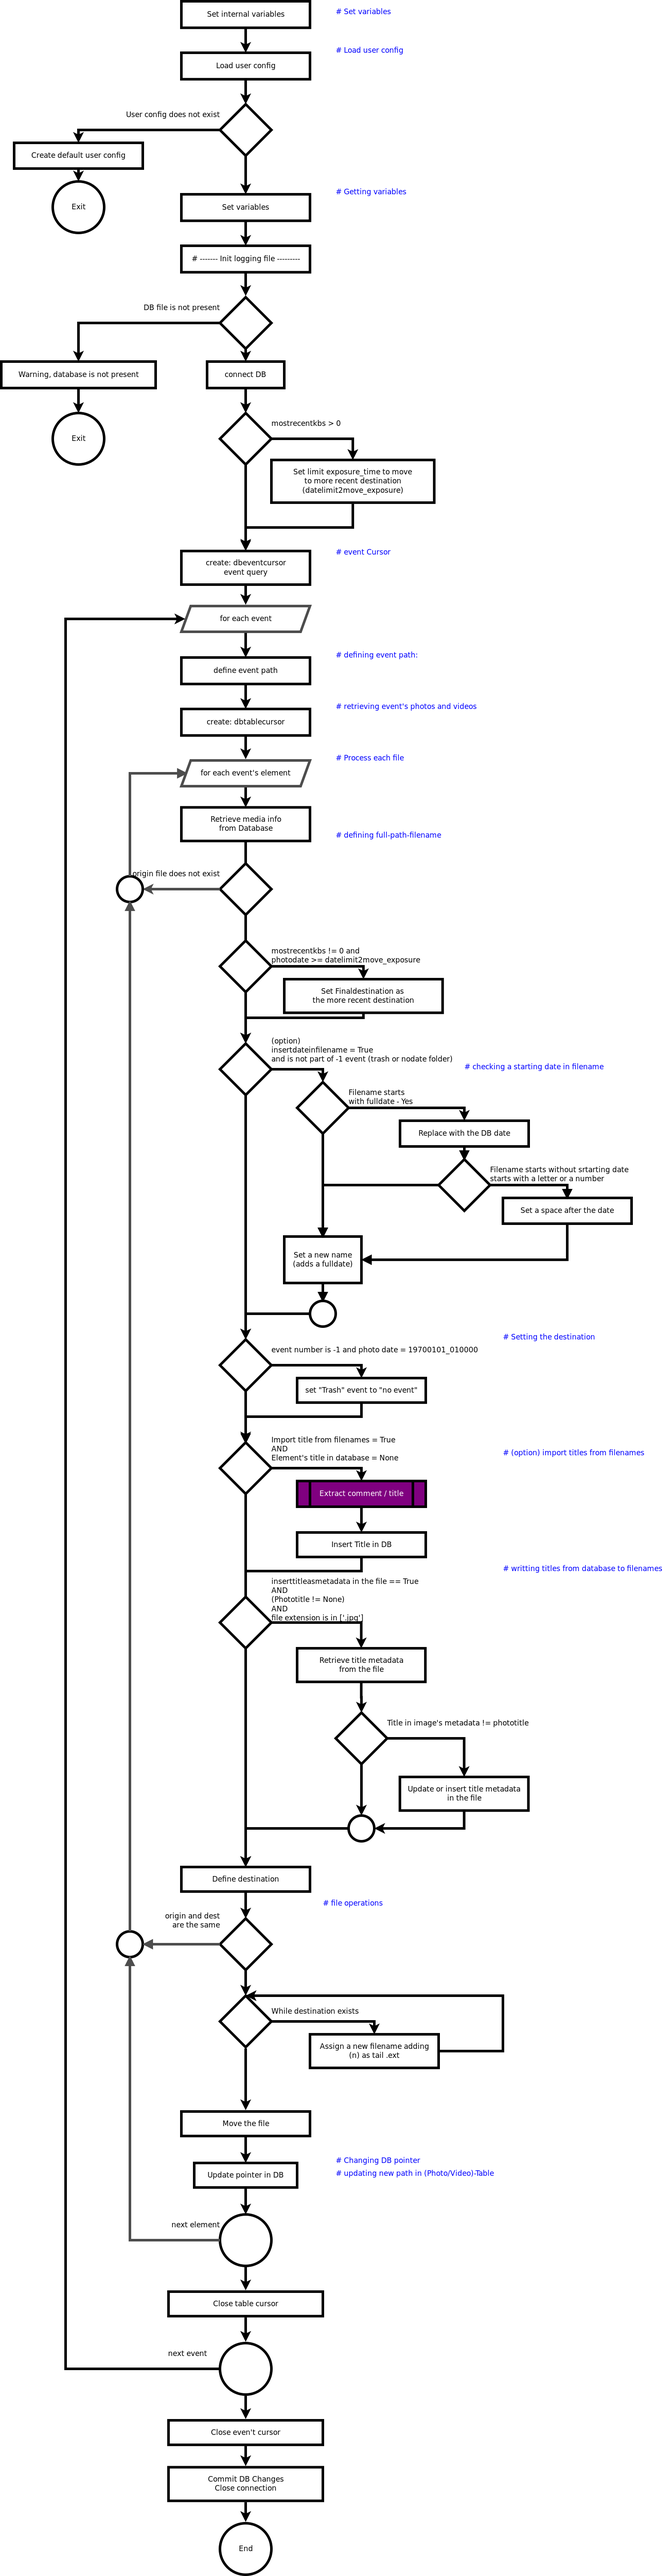
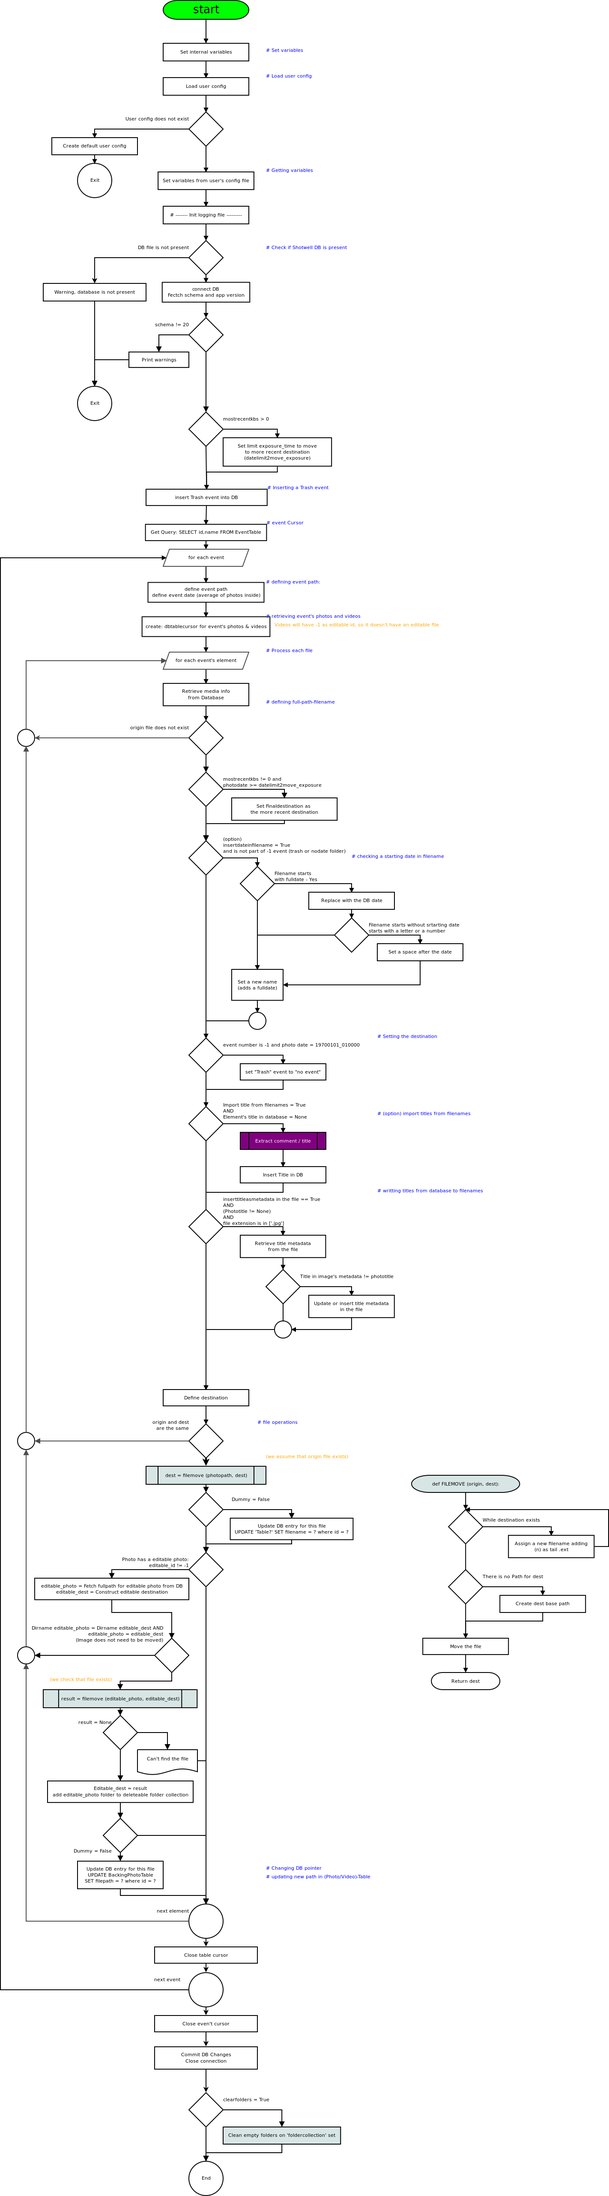
Bug#9 coded, now editable photos are also moved beside originals

diff --git a/Shotwell_event2folder.py b/Shotwell_event2folder.py
@@ -168,7 +168,7 @@ if __name__ == '__main__':
 	insertdateinfilename = True  #  Filenames will be renamed with starting with a full-date expression
 	clearfolders = True  # Delete empty folders
 	librarymostrecentpath =  "%(home)s/Pictures/mostrecent"  # Path to send the most recent pictures. You can set this path synced with Dropbox pej.
-	mostrecentkbs = 2000000000  # Amount of max Kbs to send to the most recent pictures path as destination. Set 0 if you do not want to send any pictures there.
+	mostrecentkbs = 2000000000  # Max amount of Kbs to send to the most recent pictures path as destination. Set 0 if you do not want to send any pictures there.
 	importtitlefromfilenames = False  # Get a title from the filename and set it as title in the database. It only imports titles if the photo title at Database is empty.
 	inserttitlesinfiles = False  # Insert titles in files as metadata, you can insert or update your files with the database titles. If importtitlefromfilenames is True, and the title's in database is empty, it will set this retrieved title in both file, and database.
 	'''%{'home':os.getenv('HOME')}
@@ -189,7 +189,6 @@ if __name__ == '__main__':
 	mostrecentkbs = Shotevent2folder_cfg.mostrecentkbs  # Amount of max Kbs to send to the most recent picture path as destination. Set 0 if you do not want to send any pictures there.
 	importtitlefromfilenames = Shotevent2folder_cfg.importtitlefromfilenames  # Get a title from the filename and set it as title.
 	inserttitlesinfiles = Shotevent2folder_cfg.inserttitlesinfiles  # Insert titles in files as metadata, you can insert or update your files with the database titles. If importtitlefromfilenames is True, and the title's in database is empty, it will set this retrieved title in both file, and database.
-
 
 
 	# ===============================
@@ -247,6 +246,14 @@ if __name__ == '__main__':
 		exit()
 
 	dbconnection = sqlite3.connect (DBpath)
+
+	__Schema__, __appversion__ = dbconnection.execute ("SELECT schema_version, app_version FROM versiontable").fetchone()
+	if __Schema__ != 20 :
+		print ("This utility may not work properly with an Shotwell DataBase Schema other than 20")
+		print ("It is recomended use Shotwell with this schema: Shotwell version 0.22.0 or 0.24")
+		print ("Actual DB Schema is %s"%__Schema__)
+		print ("Actual Shotwell Version %s"%__appversion__)
+		exit ()
 
 	# Set the more recent Kbs of data and stablishing the limit to move if any.
 	if mostrecentkbs > 0 :
@@ -401,10 +408,10 @@ if __name__ == '__main__':
 			logging.info ("will be sent to :" + dest)
 
 			# file operations
-
 			if photopath == dest:
 				infomsg = "This file is already on its destination. This file remains on its place."
 				logging.info (infomsg)
+				continue
 			else:
 				#moving files from photopath to dest
 				dest = filemove (photopath, dest)
@@ -418,12 +425,15 @@ if __name__ == '__main__':
 				editable_dest = os.path.splitext(dest)[0]+'_modified'+os.path.splitext(dest)[1]
 				if os.path.dirname(editable_photo) == os.path.dirname(editable_dest) and editable_photo == editable_dest:
 					infomsg = "This file is already on its destination. This file remains on its place."
-					logging.info (infomsg)			
+					logging.info (infomsg)
+					continue			
 				else:
 					#moving files from editable_photo to editable_dest
 					result = filemove (editable_photo, editable_dest)
 					if result != None:
 						editable_dest = result
+						foldercollection.add (os.path.dirname(editable_photo))
+						logging.debug (os.path.dirname(editable_photo) + ' added to folders list')
 						# Changing DB pointer
 						if dummy == False:
 							dbconnection.execute ('UPDATE BackingPhotoTable SET filepath = ? where id = ?', (editable_dest, editable_id))
@@ -431,7 +441,6 @@ if __name__ == '__main__':
 					else:
 						infomsg = 'Cannot find editable file id(%s): %s'%(editable_id,editable_photo)
 						logging.warning (infomsg)
-
 
 		dbtablecursor.close()
 
